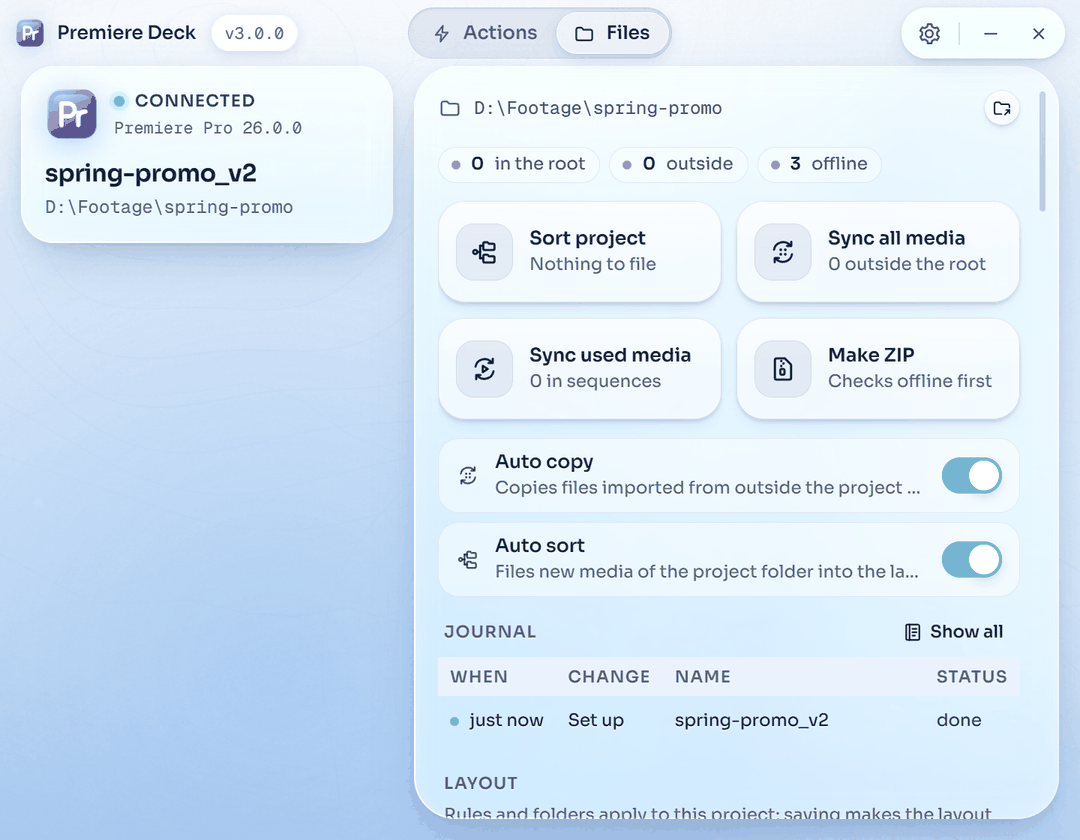
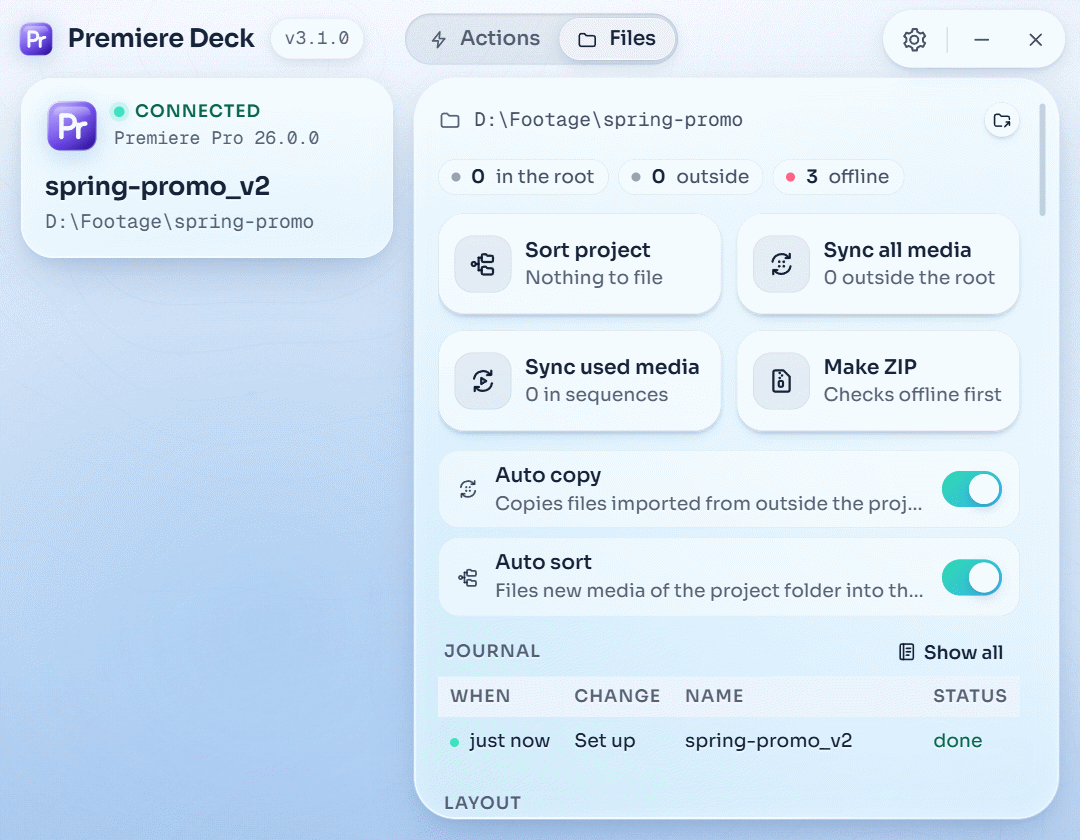
Larger type scale and a 52 px title bar in the window and the panel; release v3.1.0

diff --git a/src/premiere_deck/panel/css/panel.css b/src/premiere_deck/panel/css/panel.css
@@ -29,15 +29,15 @@
     --w-display: 650;
     --font-display: var(--font-text);
     --ff-mono: "liga" 0, "calt" 0;
-    --t-display: var(--w-display) 20px / 1.2 var(--font-display);
-    --t-title: var(--w-title) 16px / 1.25 var(--font-display);
-    --t-section: var(--w-strong) 11px / 1.3 var(--font-text);
-    --t-body: var(--w-body) 13px / 1.45 var(--font-text);
-    --t-label: var(--w-medium) 12.5px / 1.3 var(--font-text);
-    --t-label-s: var(--w-medium) 11.5px / 1.3 var(--font-text);
-    --t-caption: var(--w-body) 11.5px / 1.35 var(--font-text);
-    --t-mono: var(--w-body) 12px / 1.4 var(--font-mono);
-    --t-mono-s: var(--w-body) 11px / 1.3 var(--font-mono);
+    --t-display: var(--w-display) 22px / 1.2 var(--font-display);
+    --t-title: var(--w-title) 17px / 1.25 var(--font-display);
+    --t-section: var(--w-strong) 11.5px / 1.3 var(--font-text);
+    --t-body: var(--w-body) 14px / 1.45 var(--font-text);
+    --t-label: var(--w-medium) 13.5px / 1.3 var(--font-text);
+    --t-label-s: var(--w-medium) 12.5px / 1.3 var(--font-text);
+    --t-caption: var(--w-body) 12.5px / 1.35 var(--font-text);
+    --t-mono: var(--w-body) 13px / 1.4 var(--font-mono);
+    --t-mono-s: var(--w-body) 12px / 1.3 var(--font-mono);
     --tr-display: -0.02em;
     --tr-title: -0.015em;
     --tr-section: 0.06em;
@@ -445,7 +445,7 @@ button:disabled { cursor: default; }
     flex: 1 0 auto;
     display: flex;
     flex-direction: column;
-    padding: 4px 12px 10px;
+    padding: 4px 10px 10px;
     transition: opacity var(--d-2) ease;
 }
 .deck-body.is-screen { padding: 0; }
@@ -554,7 +554,7 @@ button:disabled { cursor: default; }
     box-shadow: inset 0 0 0 0.5px var(--stroke-1);
 }
 .deck-lane-code {
-    width: 34px;
+    width: 38px;   /* PROJ in the section role is 37 px wide */
     flex: none;
     align-self: stretch;
     display: grid;

diff --git a/src/premiere_deck/ui/css/app.css b/src/premiere_deck/ui/css/app.css
@@ -60,7 +60,7 @@ body { background: var(--bg-mid); }
    the glyph, the name and the version pill. Main shows the left cluster and the module tabs in the centre slot.
    visibility (not display) keeps the three grid columns, so the centre stays centred on the window. */
 
-.tb-glyph .pr-glyph { width: 20px; height: 20px; }
+.tb-glyph .pr-glyph { width: 24px; height: 24px; }
 :root[data-mode="compact"] .tb-left,
 :root[data-mode="compact"] .tb-centre { visibility: hidden; }
 
@@ -444,10 +444,10 @@ body { background: var(--bg-mid); }
   grid-template-columns: 38px minmax(0, 1fr);
   grid-template-rows: auto auto;
   align-items: center;
-  column-gap: 11px;
+  column-gap: 9px;
   row-gap: 2px;
   height: 68px;
-  padding: 0 12px;
+  padding: 0 11px;
   text-align: left;
 }
 .ftile .well {
@@ -621,8 +621,9 @@ body { background: var(--bg-mid); }
 .lst-cols { column-count: 2; column-gap: 14px; }
 .lst-group { break-inside: avoid; margin-bottom: 8px; }
 .lst-group .caption { margin: 0 4px 2px; }
-.lst-row.is-compact { min-height: 28px; height: 28px; padding: 0 2px 0 4px; gap: 9px; background: transparent; box-shadow: none; }
-.lst-row.is-compact .lst-title { font: var(--t-label); font-weight: var(--w-body); }
+/* A long action name wraps to a second line instead of being cut (the pane is fixed at 430 px). */
+.lst-row.is-compact { min-height: 28px; padding: 3px 2px 3px 4px; gap: 9px; background: transparent; box-shadow: none; }
+.lst-row.is-compact .lst-title { font: var(--t-label); font-weight: var(--w-body); white-space: normal; text-overflow: clip; }
 .lst-row.is-compact.is-off { color: var(--ink-3); }
 .lst-row.is-compact.is-off .lst-ic { color: var(--ink-4); }
 

diff --git a/src/premiere_deck/ui/js/main.js b/src/premiere_deck/ui/js/main.js
@@ -46,7 +46,7 @@ function syncTheme(settings) {
 function initTitlebar() {
   const tb = mountTitlebar(document.getElementById('titlebar'), {
     name: 'Premiere Deck',
-    glyph: glyph(20),
+    glyph: glyph(24),
     onMinimize: () => call('window_minimize').catch((err) => toast('error', err.message)),
     onClose: () => call('window_close').catch((err) => toast('error', err.message)),
   });

diff --git a/src/premiere_deck/ui/js/settings.js b/src/premiere_deck/ui/js/settings.js
@@ -469,7 +469,7 @@ function build(content, update) {
       }));
   }
 
-  const link = button('github.com/softoblivion/premiere-deck', {
+  const link = button('softoblivion/premiere-deck', {
     cls: 'btn-ghost',
     onClick: async () => {
       try {

diff --git a/tests/test_themes.py b/tests/test_themes.py
@@ -122,8 +122,8 @@ class GeneratedFilesTests(unittest.TestCase):
             self.assertEqual(panel.group(1).strip(), kit.group(1).strip(), name)
         # The pixel sizes of the roles, as the kit documents them (LIQUID_UI.md, Typography).
         sizes = {role: re.search(r"(\d+(?:\.\d+)?)px", gen.type_tokens()[f"--t-{role}"]).group(1) for role in gen.TYPE_ROLES}
-        self.assertEqual(sizes, {"display": "20", "title": "16", "section": "11", "body": "13", "label": "12.5",
-                                 "label-s": "11.5", "caption": "11.5", "mono": "12", "mono-s": "11"})
+        self.assertEqual(sizes, {"display": "22", "title": "17", "section": "11.5", "body": "14", "label": "13.5",
+                                 "label-s": "12.5", "caption": "12.5", "mono": "13", "mono-s": "12"})
 
     def test_panel_css_has_no_ad_hoc_font_size(self):
         # Below the generated block every text names a role: no `font-size: <n>px`, no `font:` shorthand with a pixel

diff --git a/src/premiere_deck/__init__.py b/src/premiere_deck/__init__.py
@@ -4,7 +4,7 @@ The version below is the only version in the project. The build writes it into t
 manifest; the host compares the installed panel against it (docs/ARCHITECTURE.md, section 7).
 """
 
-__version__ = "3.0.0"
+__version__ = "3.1.0"
 
 # Protocol version of the host <-> panel messages (docs/PROTOCOL.md, section 3). Changes only when a message shape
 # changes incompatibly.

diff --git a/docs/releases/v3.1.0.md b/docs/releases/v3.1.0.md
@@ -1,0 +1,13 @@
+## ⪩ Premiere Deck v3.1.0 ⪨
+
+Larger text and a taller title bar, so the window and the panel read comfortably on a large monitor at 100 % display scaling.
+
+---
+
+### ⤷ Changed ˎˊ˗
+
+- **Text size** — every text style of the window and the panel is one step larger: body text 14 px instead of 13, labels, buttons and tile codes 13.5 / 12.5, headings 17, meta lines 12.5, paths and versions 13. Weights and line spacing stay the same.
+- **Title bar** — 52 px instead of 44: a larger app glyph, the app name in the heading size, a taller version pill and larger Settings, Minimize and Close buttons.
+- **Actions tab of the window** — a long action name wraps onto a second line instead of being cut off.
+- **Panel lanes** — the group codes on the left (TIME, TRKS, PROJ, …) have a slightly wider column so the larger codes fit.
+- **Settings > About** — the source code link reads `softoblivion/premiere-deck`.
